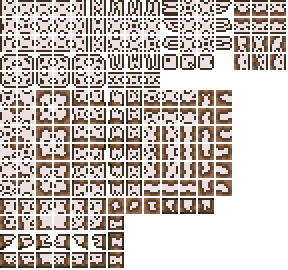
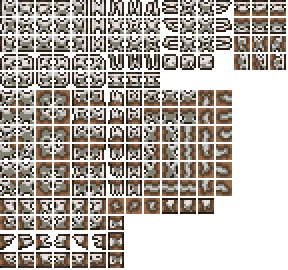
Cheese Tile My Beloved

diff --git a/Tiles/Riven/Marrowick.cs b/Tiles/Riven/Marrowick.cs
@@ -5,13 +5,17 @@ using Terraria.ModLoader;
 using static Terraria.ModLoader.ModContent;
 
 namespace Origins.Tiles.Riven {
-	public class Marrowick : OriginTile {
+    public class Marrowick : OriginTile {
 		public override void SetStaticDefaults() {
 			Main.tileSolid[Type] = true;
 			Main.tileBlockLight[Type] = true;
-			AddMapEntry(new Color(165, 175, 100));
+            Main.tileMergeDirt[Type] = true;
+            TileID.Sets.DrawsWalls[Type] = true;
+            AddMapEntry(new Color(165, 175, 100));
 			mergeID = TileID.WoodBlock;
-		}
+            HitSound = SoundID.NPCHit2;
+            DustType = DustID.Sand;
+        }
 	}
 	public class Marrowick_Item : ModItem {
 		public override void SetStaticDefaults() {

diff --git a/Tiles/Riven/Primordial_Permafrost.cs b/Tiles/Riven/Primordial_Permafrost.cs
@@ -1,17 +1,11 @@
 using Microsoft.Xna.Framework;
-using Origins.World.BiomeData;
-using System;
-using System.Collections.Generic;
-using System.Linq;
-using System.Text;
-using System.Threading.Tasks;
 using Terraria;
 using Terraria.ID;
 using Terraria.ModLoader;
 using static Terraria.ModLoader.ModContent;
 
 namespace Origins.Tiles.Riven {
-	public class Primordial_Permafrost : OriginTile, RivenTile {
+    public class Primordial_Permafrost : OriginTile, RivenTile {
 		public override void SetStaticDefaults() {
 			Main.tileSolid[Type] = true;
 			TileID.Sets.Ices[Type] = true;

diff --git a/Walls/Marrowick_Wall.cs b/Walls/Marrowick_Wall.cs
@@ -1,0 +1,21 @@
+using Microsoft.Xna.Framework;
+using Terraria;
+using Terraria.ID;
+using Terraria.ModLoader;
+using static Terraria.ModLoader.ModContent;
+
+namespace Origins.Walls {
+    public class Marrowick_Wall : ModWall {
+		public override void SetStaticDefaults() {
+			Main.wallBlend[Type] = WallID.Wood;
+			AddMapEntry(new Color(130, 110, 90));
+		}
+	}
+	public class Marrowick_Wall_Item : ModItem {
+		
+		public override void SetDefaults() {
+			Item.CloneDefaults(ItemID.WoodWall);
+			Item.createWall = WallType<Marrowick_Wall>();
+		}
+	}
+}

diff --git a/Items/Weapons/Demolitionist/Ace_Shrapnel.cs b/Items/Weapons/Demolitionist/Ace_Shrapnel.cs
@@ -8,8 +8,6 @@ using Terraria.ModLoader;
 
 namespace Origins.Items.Weapons.Demolitionist {
     public class Ace_Shrapnel : ModItem {
-
-		
 		public override void SetDefaults() {
 			Item.CloneDefaults(ItemID.Flamethrower);
 			Item.DamageType = DamageClasses.ExplosiveVersion[DamageClass.Ranged];
